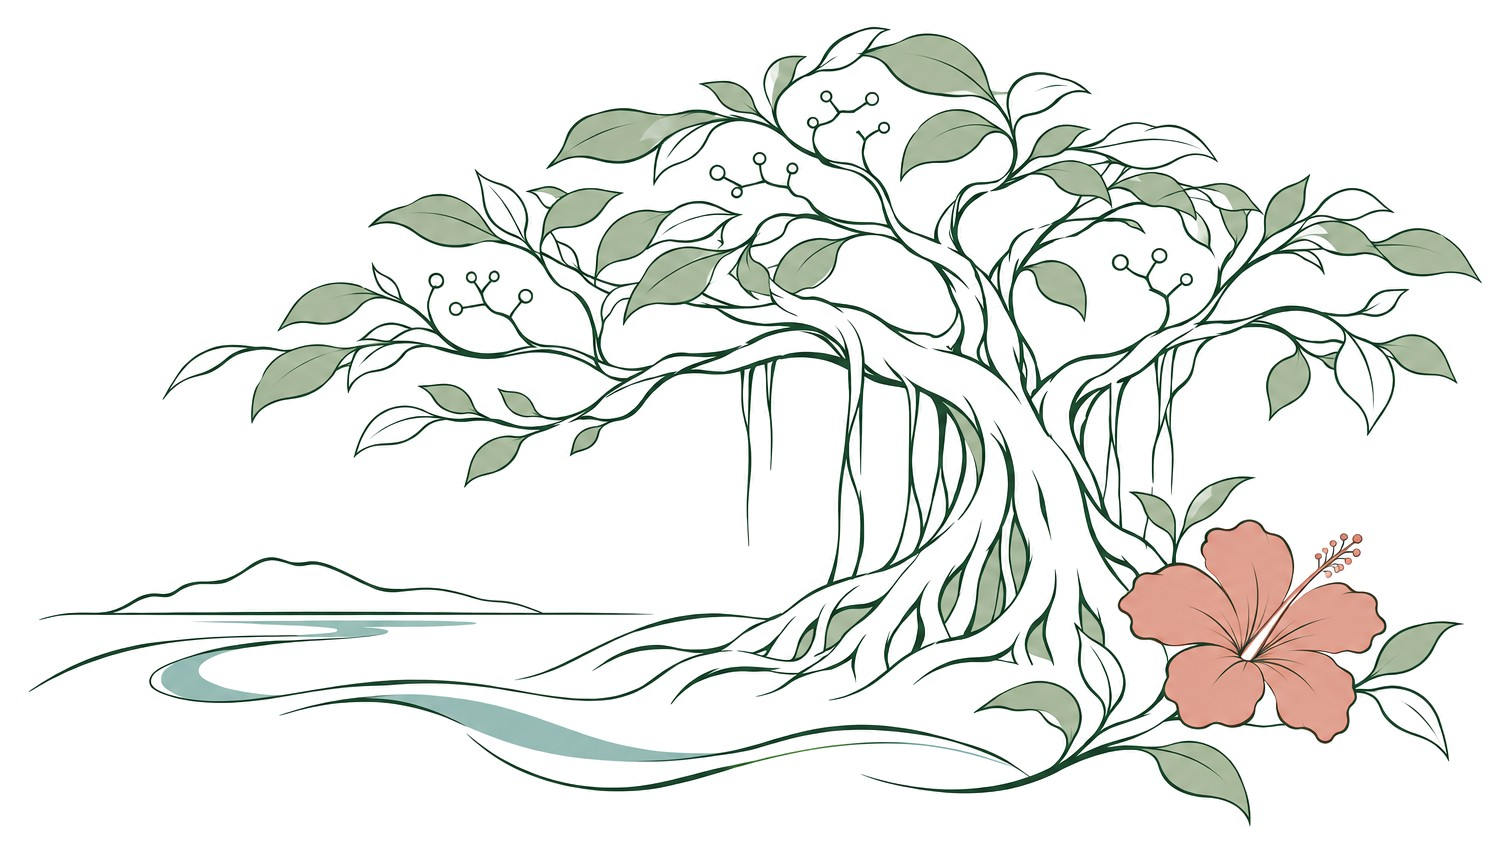
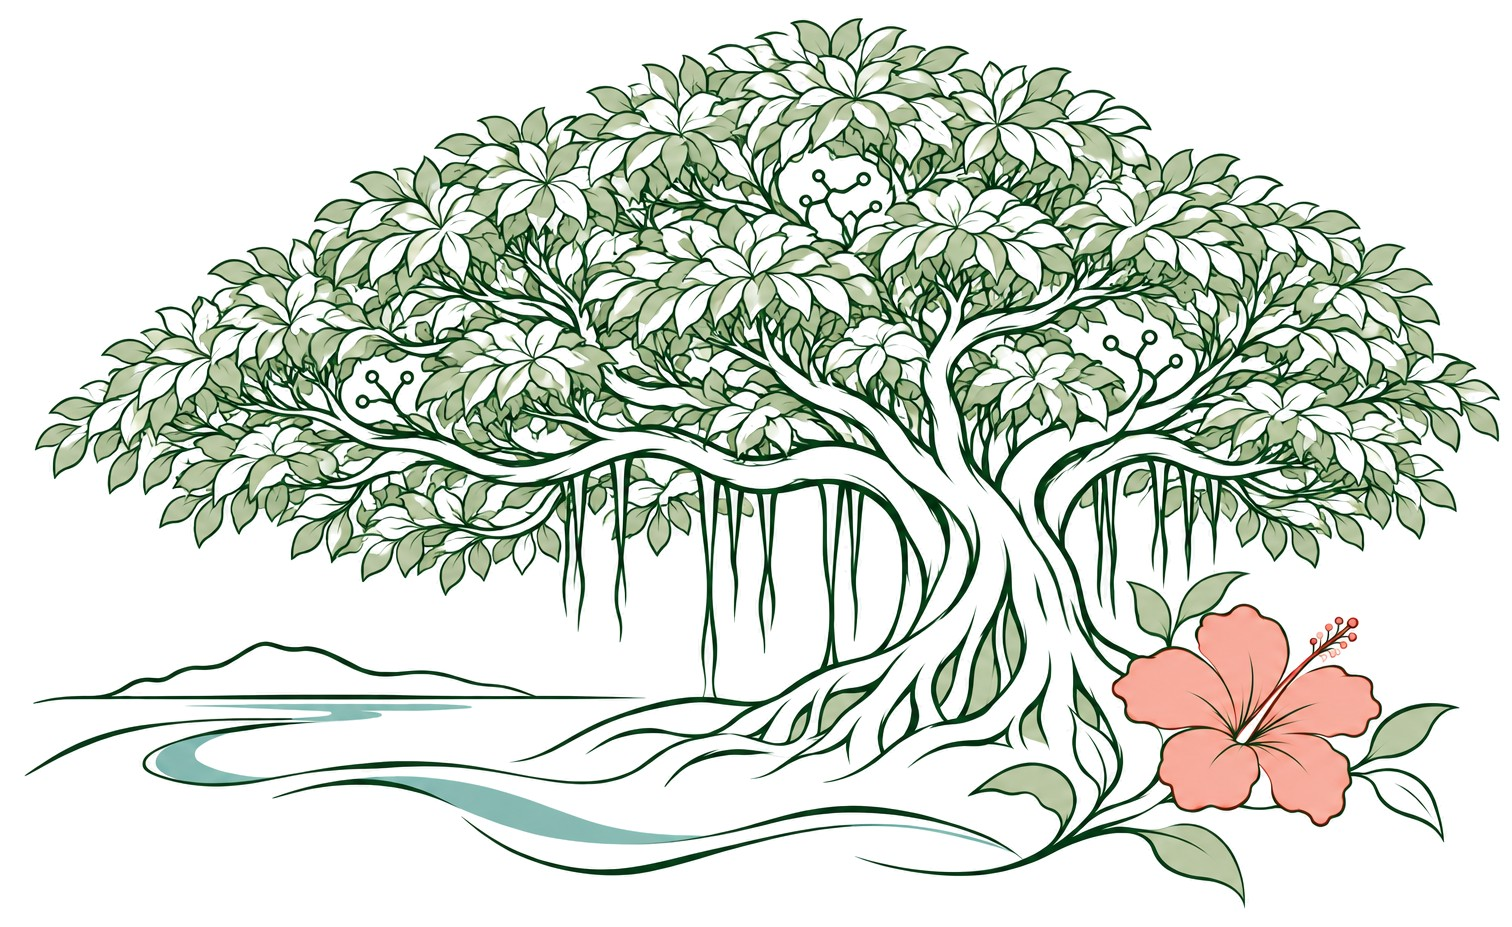
キービジュアルを樹冠充実版に差し替え、検索エンジン向けの設定を追加（サイトマップ・robots.txt・OGP・法人情報）

diff --git a/index.html b/index.html
@@ -6,6 +6,17 @@
 <title>一般社団法人 おきなわ長寿復興・医療イノベーション研究所</title>
 <meta name="description" content="おきなわ長寿復興・医療イノベーション研究所では沖縄県における次世代の地域医療に関する事業、調査、政策提言を行っています。">
 <link rel="canonical" href="https://okinawa-lrmi.github.io/">
+<meta property="og:type" content="website">
+<meta property="og:locale" content="ja_JP">
+<meta property="og:site_name" content="一般社団法人 おきなわ長寿復興・医療イノベーション研究所">
+<meta property="og:title" content="一般社団法人 おきなわ長寿復興・医療イノベーション研究所">
+<meta property="og:description" content="おきなわ長寿復興・医療イノベーション研究所では沖縄県における次世代の地域医療に関する事業、調査、政策提言を行っています。">
+<meta property="og:url" content="https://okinawa-lrmi.github.io/">
+<meta property="og:image" content="https://okinawa-lrmi.github.io/assets/img/keyvisual.jpg">
+<meta name="twitter:card" content="summary_large_image">
+<script type="application/ld+json">
+{"@context":"https://schema.org","@type":"Organization","name":"一般社団法人 おきなわ長寿復興・医療イノベーション研究所","alternateName":"おきなわ長寿復興・医療イノベーション研究所","url":"https://okinawa-lrmi.github.io/","logo":"https://okinawa-lrmi.github.io/assets/img/favicon.png","image":"https://okinawa-lrmi.github.io/assets/img/keyvisual.jpg","description":"おきなわ長寿復興・医療イノベーション研究所では沖縄県における次世代の地域医療に関する事業、調査、政策提言を行っています。","foundingDate":"2014-07-01","telephone":"+81-80-6485-5626","address":{"@type":"PostalAddress","postalCode":"901-2214","addressRegion":"沖縄県","addressLocality":"宜野湾市","streetAddress":"我如古4-4-2 613","addressCountry":"JP"}}
+</script>
 <link rel="icon" type="image/png" href="assets/img/favicon.png">
 <link rel="preconnect" href="https://fonts.googleapis.com">
 <link rel="preconnect" href="https://fonts.gstatic.com" crossorigin>
@@ -33,7 +44,7 @@
 <div class="wrap">
 <picture>
 <source srcset="assets/img/keyvisual.webp" type="image/webp">
-<img class="hero-art" src="assets/img/keyvisual.jpg" alt="ガジュマルの大樹とハイビスカス、遠くに島の見える海を描いた線画" width="1510" height="850">
+<img class="hero-art" src="assets/img/keyvisual.jpg" alt="ガジュマルの大樹とハイビスカス、遠くに島の見える海を描いた線画" width="1512" height="927">
 </picture>
 <div class="hero-text">
 <p class="hero-sub">Okinawa LRMI</p>

diff --git a/facilities.html b/facilities.html
@@ -6,6 +6,14 @@
 <title>研究所案内｜一般社団法人 おきなわ長寿復興・医療イノベーション研究所</title>
 <meta name="description" content="おきなわ長寿復興・医療イノベーション研究所の事業内容など、研究所のご案内をしています。">
 <link rel="canonical" href="https://okinawa-lrmi.github.io/facilities.html">
+<meta property="og:type" content="website">
+<meta property="og:locale" content="ja_JP">
+<meta property="og:site_name" content="一般社団法人 おきなわ長寿復興・医療イノベーション研究所">
+<meta property="og:title" content="研究所案内｜一般社団法人 おきなわ長寿復興・医療イノベーション研究所">
+<meta property="og:description" content="おきなわ長寿復興・医療イノベーション研究所の事業内容など、研究所のご案内をしています。">
+<meta property="og:url" content="https://okinawa-lrmi.github.io/facilities.html">
+<meta property="og:image" content="https://okinawa-lrmi.github.io/assets/img/keyvisual.jpg">
+<meta name="twitter:card" content="summary_large_image">
 <link rel="icon" type="image/png" href="assets/img/favicon.png">
 <link rel="preconnect" href="https://fonts.googleapis.com">
 <link rel="preconnect" href="https://fonts.gstatic.com" crossorigin>

diff --git a/contact.html b/contact.html
@@ -6,6 +6,14 @@
 <title>お問合せ｜一般社団法人 おきなわ長寿復興・医療イノベーション研究所</title>
 <meta name="description" content="お電話かメールで、おきなわ長寿復興・医療イノベーション研究所へのお問合せいただけます。">
 <link rel="canonical" href="https://okinawa-lrmi.github.io/contact.html">
+<meta property="og:type" content="website">
+<meta property="og:locale" content="ja_JP">
+<meta property="og:site_name" content="一般社団法人 おきなわ長寿復興・医療イノベーション研究所">
+<meta property="og:title" content="お問合せ｜一般社団法人 おきなわ長寿復興・医療イノベーション研究所">
+<meta property="og:description" content="お電話かメールで、おきなわ長寿復興・医療イノベーション研究所へのお問合せいただけます。">
+<meta property="og:url" content="https://okinawa-lrmi.github.io/contact.html">
+<meta property="og:image" content="https://okinawa-lrmi.github.io/assets/img/keyvisual.jpg">
+<meta name="twitter:card" content="summary_large_image">
 <link rel="icon" type="image/png" href="assets/img/favicon.png">
 <link rel="preconnect" href="https://fonts.googleapis.com">
 <link rel="preconnect" href="https://fonts.gstatic.com" crossorigin>

diff --git a/plan.html b/plan.html
@@ -6,6 +6,14 @@
 <title>受託案件｜一般社団法人 おきなわ長寿復興・医療イノベーション研究所</title>
 <meta name="description" content="おきなわ長寿復興・医療イノベーション研究所がこれまでに受託した事業・研究開発の一覧です。">
 <link rel="canonical" href="https://okinawa-lrmi.github.io/plan.html">
+<meta property="og:type" content="website">
+<meta property="og:locale" content="ja_JP">
+<meta property="og:site_name" content="一般社団法人 おきなわ長寿復興・医療イノベーション研究所">
+<meta property="og:title" content="受託案件｜一般社団法人 おきなわ長寿復興・医療イノベーション研究所">
+<meta property="og:description" content="おきなわ長寿復興・医療イノベーション研究所がこれまでに受託した事業・研究開発の一覧です。">
+<meta property="og:url" content="https://okinawa-lrmi.github.io/plan.html">
+<meta property="og:image" content="https://okinawa-lrmi.github.io/assets/img/keyvisual.jpg">
+<meta name="twitter:card" content="summary_large_image">
 <link rel="icon" type="image/png" href="assets/img/favicon.png">
 <link rel="preconnect" href="https://fonts.googleapis.com">
 <link rel="preconnect" href="https://fonts.gstatic.com" crossorigin>

diff --git a/20150320.html b/20150320.html
@@ -6,6 +6,14 @@
 <title>「医療情報利用推進セミナー」を開催します。｜一般社団法人 おきなわ長寿復興・医療イノベーション研究所</title>
 <meta name="description" content="「医療情報利用推進セミナー」を開催します。">
 <link rel="canonical" href="https://okinawa-lrmi.github.io/20150320.html">
+<meta property="og:type" content="website">
+<meta property="og:locale" content="ja_JP">
+<meta property="og:site_name" content="一般社団法人 おきなわ長寿復興・医療イノベーション研究所">
+<meta property="og:title" content="「医療情報利用推進セミナー」を開催します。｜一般社団法人 おきなわ長寿復興・医療イノベーション研究所">
+<meta property="og:description" content="「医療情報利用推進セミナー」を開催します。">
+<meta property="og:url" content="https://okinawa-lrmi.github.io/20150320.html">
+<meta property="og:image" content="https://okinawa-lrmi.github.io/assets/img/keyvisual.jpg">
+<meta name="twitter:card" content="summary_large_image">
 <link rel="icon" type="image/png" href="assets/img/favicon.png">
 <link rel="preconnect" href="https://fonts.googleapis.com">
 <link rel="preconnect" href="https://fonts.gstatic.com" crossorigin>

diff --git a/news.html b/news.html
@@ -6,6 +6,14 @@
 <title>新着情報｜一般社団法人 おきなわ長寿復興・医療イノベーション研究所</title>
 <meta name="description" content="おきなわ長寿復興・医療イノベーション研究所の新着情報を一覧でご覧いただけます。">
 <link rel="canonical" href="https://okinawa-lrmi.github.io/news.html">
+<meta property="og:type" content="website">
+<meta property="og:locale" content="ja_JP">
+<meta property="og:site_name" content="一般社団法人 おきなわ長寿復興・医療イノベーション研究所">
+<meta property="og:title" content="新着情報｜一般社団法人 おきなわ長寿復興・医療イノベーション研究所">
+<meta property="og:description" content="おきなわ長寿復興・医療イノベーション研究所の新着情報を一覧でご覧いただけます。">
+<meta property="og:url" content="https://okinawa-lrmi.github.io/news.html">
+<meta property="og:image" content="https://okinawa-lrmi.github.io/assets/img/keyvisual.jpg">
+<meta name="twitter:card" content="summary_large_image">
 <link rel="icon" type="image/png" href="assets/img/favicon.png">
 <link rel="preconnect" href="https://fonts.googleapis.com">
 <link rel="preconnect" href="https://fonts.gstatic.com" crossorigin>

diff --git a/20261115.html b/20261115.html
@@ -6,6 +6,14 @@
 <title>Webサイトをリニューアルしました。｜一般社団法人 おきなわ長寿復興・医療イノベーション研究所</title>
 <meta name="description" content="Webサイトをリニューアルしました。">
 <link rel="canonical" href="https://okinawa-lrmi.github.io/20261115.html">
+<meta property="og:type" content="website">
+<meta property="og:locale" content="ja_JP">
+<meta property="og:site_name" content="一般社団法人 おきなわ長寿復興・医療イノベーション研究所">
+<meta property="og:title" content="Webサイトをリニューアルしました。｜一般社団法人 おきなわ長寿復興・医療イノベーション研究所">
+<meta property="og:description" content="Webサイトをリニューアルしました。">
+<meta property="og:url" content="https://okinawa-lrmi.github.io/20261115.html">
+<meta property="og:image" content="https://okinawa-lrmi.github.io/assets/img/keyvisual.jpg">
+<meta name="twitter:card" content="summary_large_image">
 <link rel="icon" type="image/png" href="assets/img/favicon.png">
 <link rel="preconnect" href="https://fonts.googleapis.com">
 <link rel="preconnect" href="https://fonts.gstatic.com" crossorigin>

diff --git a/20150319.html b/20150319.html
@@ -6,6 +6,14 @@
 <title>ウェブサイトを公開しました。｜一般社団法人 おきなわ長寿復興・医療イノベーション研究所</title>
 <meta name="description" content="ウェブサイトを公開しました。">
 <link rel="canonical" href="https://okinawa-lrmi.github.io/20150319.html">
+<meta property="og:type" content="website">
+<meta property="og:locale" content="ja_JP">
+<meta property="og:site_name" content="一般社団法人 おきなわ長寿復興・医療イノベーション研究所">
+<meta property="og:title" content="ウェブサイトを公開しました。｜一般社団法人 おきなわ長寿復興・医療イノベーション研究所">
+<meta property="og:description" content="ウェブサイトを公開しました。">
+<meta property="og:url" content="https://okinawa-lrmi.github.io/20150319.html">
+<meta property="og:image" content="https://okinawa-lrmi.github.io/assets/img/keyvisual.jpg">
+<meta name="twitter:card" content="summary_large_image">
 <link rel="icon" type="image/png" href="assets/img/favicon.png">
 <link rel="preconnect" href="https://fonts.googleapis.com">
 <link rel="preconnect" href="https://fonts.gstatic.com" crossorigin>

diff --git a/assets/css/style.css b/assets/css/style.css
@@ -122,7 +122,7 @@ a:focus-visible, button:focus-visible { outline: 2px solid var(--green); outline
   .home main { display: grid; grid-template-rows: minmax(0, 1fr) auto; min-height: 0; }
   .hero { min-height: 340px; }
   .hero .wrap { position: relative; display: block; height: 100%; padding-block: 0; }
-  .hero picture { position: absolute; inset: 10px 40px 0 auto; width: 66%; display: flex; justify-content: flex-end; align-items: flex-end; }
+  .hero picture { position: absolute; inset: 12px 40px 6px auto; width: 58%; display: flex; justify-content: flex-end; align-items: flex-end; }
   .hero-art { width: 100%; height: 100%; object-fit: contain; object-position: right bottom; }
   .hero-text { position: relative; width: max-content; height: 100%; display: flex; flex-direction: column; justify-content: center; align-items: flex-start; }
   .hero-main span { white-space: nowrap; }

diff --git a/_tools/build.py b/_tools/build.py
@@ -64,23 +64,58 @@ FONTS = ('https://fonts.googleapis.com/css2?family=Cormorant+Garamond:ital,wght@
          '&amp;family=Shippori+Mincho:wght@500;700&amp;display=swap')
 
 
+# Google Search Console の所有確認コード（発行されたら content の値をここに入れる）
+GOOGLE_VERIFY = ''
+VERIFY = ('<meta name="google-site-verification" content="%s">\n' % GOOGLE_VERIFY) if GOOGLE_VERIFY else ''
+
+# 検索エンジン向けの法人情報
+ORG_JSONLD = """<script type="application/ld+json">
+{"@context":"https://schema.org","@type":"Organization","name":"%s","alternateName":"%s","url":"%s","logo":"%sassets/img/favicon.png","image":"%sassets/img/keyvisual.jpg","description":"%s","foundingDate":"2014-07-01","telephone":"+81-80-6485-5626","address":{"@type":"PostalAddress","postalCode":"901-2214","addressRegion":"沖縄県","addressLocality":"宜野湾市","streetAddress":"我如古4-4-2 613","addressCountry":"JP"}}
+</script>
+""" % (ORG_FULL, ORG, BASE, BASE, BASE, DESC)
+
+PAGES = []   # サイトマップ用に、作ったページのアドレスを集める
+
+
+def build_sitemap():
+    import datetime
+    today = datetime.date.today().isoformat()
+    xml = '<?xml version="1.0" encoding="UTF-8"?>\n<urlset xmlns="http://www.sitemaps.org/schemas/sitemap/0.9">\n'
+    for u in PAGES:
+        xml += '<url><loc>%s</loc><lastmod>%s</lastmod></url>\n' % (u, today)
+    xml += '</urlset>\n'
+    write('sitemap.xml', xml)
+    write('robots.txt', 'User-agent: *\nAllow: /\n\nSitemap: %ssitemap.xml\n' % BASE)
+
+
 def head(title, desc, path):
     full = ORG_FULL if not title else title + '｜' + ORG_FULL
+    url = BASE + ('' if path == 'index.html' else path)
+    PAGES.append(url)
     return """<!DOCTYPE html>
 <html lang="ja">
 <head>
 <meta charset="UTF-8">
 <meta name="viewport" content="width=device-width, initial-scale=1">
-<title>%s</title>
-<meta name="description" content="%s">
-<link rel="canonical" href="%s%s">
-<link rel="icon" type="image/png" href="assets/img/favicon.png">
+<title>%(full)s</title>
+<meta name="description" content="%(desc)s">
+<link rel="canonical" href="%(url)s">
+<meta property="og:type" content="website">
+<meta property="og:locale" content="ja_JP">
+<meta property="og:site_name" content="%(org)s">
+<meta property="og:title" content="%(full)s">
+<meta property="og:description" content="%(desc)s">
+<meta property="og:url" content="%(url)s">
+<meta property="og:image" content="%(base)sassets/img/keyvisual.jpg">
+<meta name="twitter:card" content="summary_large_image">
+%(extra)s<link rel="icon" type="image/png" href="assets/img/favicon.png">
 <link rel="preconnect" href="https://fonts.googleapis.com">
 <link rel="preconnect" href="https://fonts.gstatic.com" crossorigin>
-<link rel="stylesheet" href="%s">
+<link rel="stylesheet" href="%(fonts)s">
 <link rel="stylesheet" href="assets/css/style.css">
 </head>
-""" % (full, desc, BASE, '' if path == 'index.html' else path, FONTS)
+""" % dict(full=full, desc=desc or DESC, url=url, org=ORG_FULL, base=BASE, fonts=FONTS,
+           extra=(VERIFY + ORG_JSONLD) if path == 'index.html' else '')
 
 
 def header(current, home=False):
@@ -154,7 +189,7 @@ def build_index():
 <div class="wrap">
 <picture>
 <source srcset="assets/img/keyvisual.webp" type="image/webp">
-<img class="hero-art" src="assets/img/keyvisual.jpg" alt="ガジュマルの大樹とハイビスカス、遠くに島の見える海を描いた線画" width="1510" height="850">
+<img class="hero-art" src="assets/img/keyvisual.jpg" alt="ガジュマルの大樹とハイビスカス、遠くに島の見える海を描いた線画" width="1512" height="927">
 </picture>
 <div class="hero-text">
 <p class="hero-sub">Okinawa LRMI</p>
@@ -303,3 +338,4 @@ if __name__ == '__main__':
     if SHOW_LINKS:
         build_link()
     build_contact()
+    build_sitemap()
